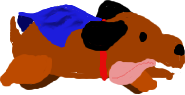
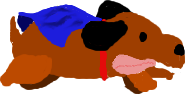
created main menu and added more animation to player

Changed region(s): [[0.5676, 0.5684, 0.7838, 0.9263], [0.3784, 0.7579, 0.4324, 0.7789]]

diff --git a/menu.py b/menu.py
@@ -1,0 +1,24 @@
+import pygame
+from pygame.locals import *
+
+class Menu(pygame.sprite.Sprite):
+
+	def __init__(self,filename):
+		pygame.sprite.Sprite.__init__(self)
+		self.image = pygame.image.load(filename)
+		self.rect = self.image.get_rect()
+		self.running = True
+
+	def menu(self, screen):
+		"""function to show the menu"""
+		while self.running:
+			screen.blit(self.image, (0,0))
+			pygame.display.flip()
+			event = pygame.event.poll()
+			if event.type == MOUSEBUTTONDOWN:
+				location = pygame.mouse.get_pos()
+				# print location
+				if location[0] > 350 and location[0] < 625  and \
+				location[1] > 265 and location[1] < 300:
+					self.running = False
+

diff --git a/main.py b/main.py
@@ -5,6 +5,7 @@ from pygame.locals import *
 import player
 import level
 import Entity
+import menu
 # this contains the main loop of the game
 
 pygame.init()
@@ -18,6 +19,10 @@ screen = pygame.display.get_surface()
 clock = pygame.time.Clock()
 
 objects = pygame.sprite.OrderedUpdates((level,player))
+
+# open the starting menu
+main_menu = menu.Menu( "main_menu.png" )
+main_menu.menu(screen)
 
 while True:
 	# catch event
